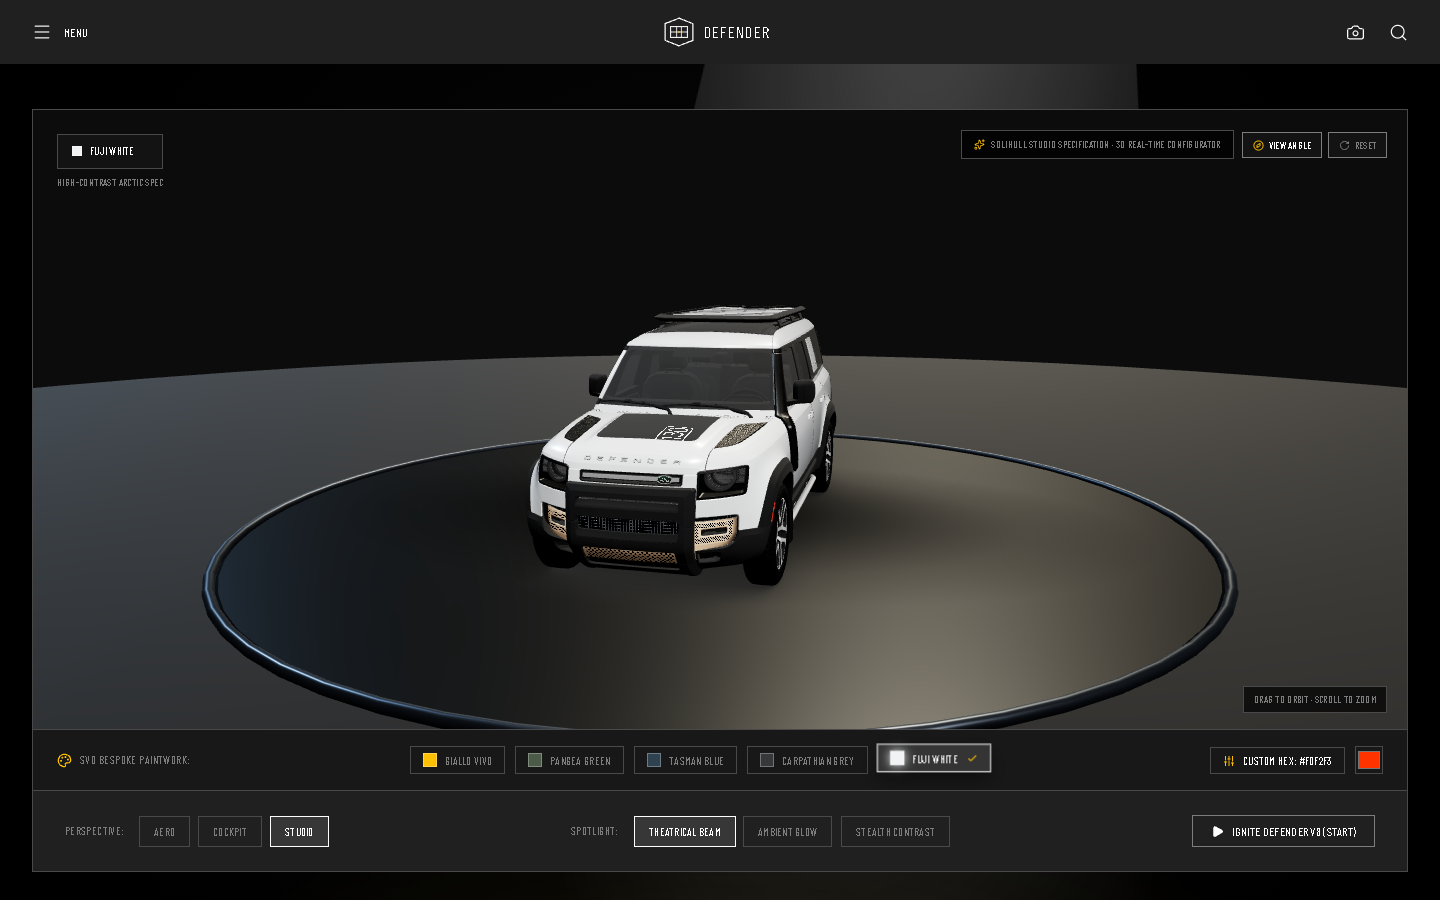
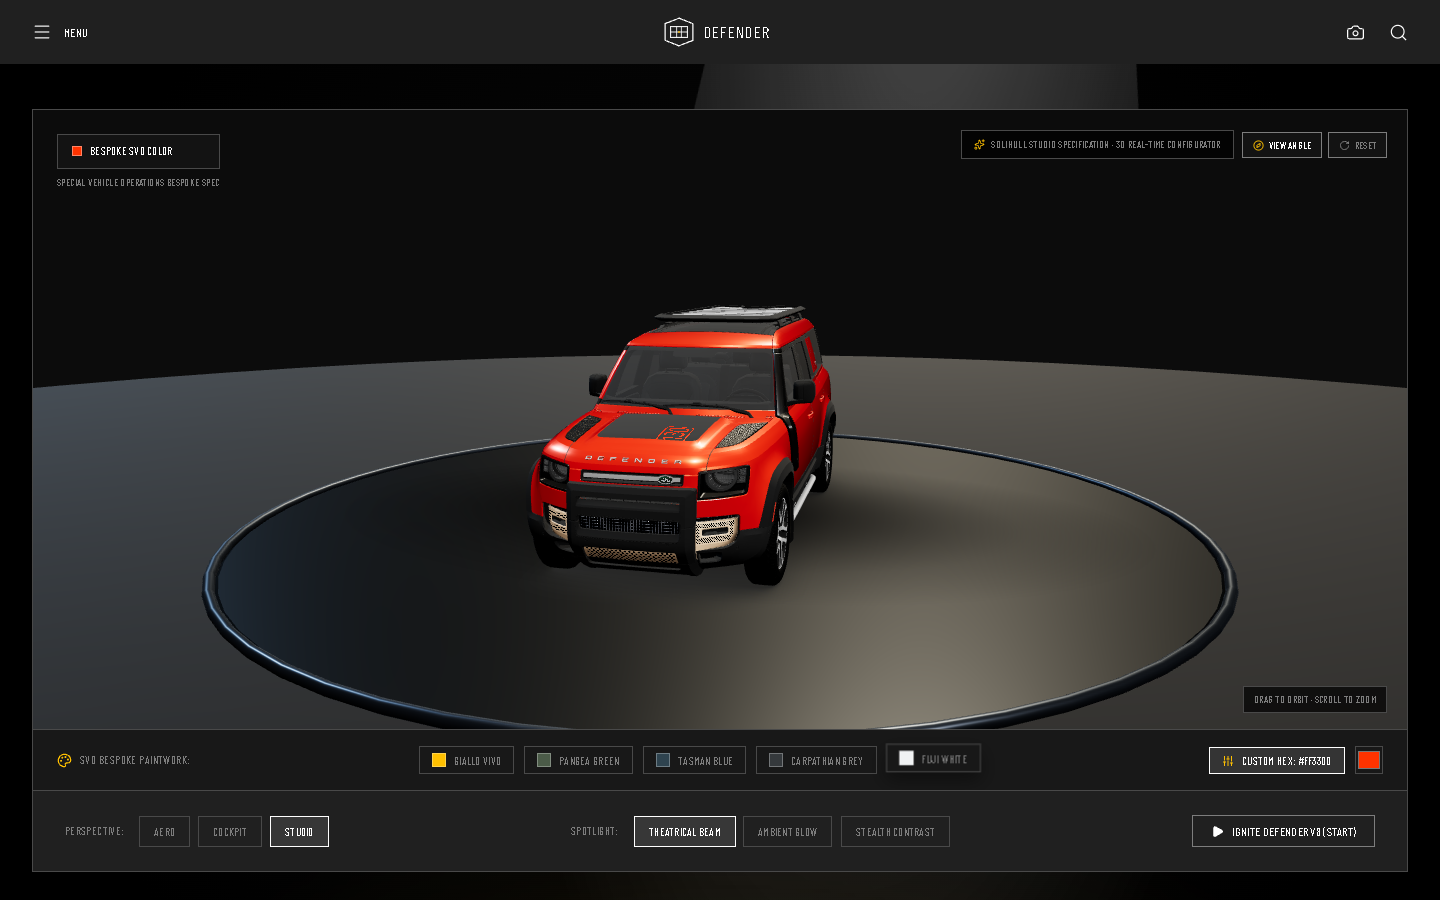
fix: update 3D camera viewpoints, centered stage framing, and visual screenshots

diff --git a/scripts/capture-3d-studio.js b/scripts/capture-3d-studio.js
@@ -80,13 +80,8 @@ async function capture() {
 
   // 6. Test Bespoke Custom Hex
   console.log('Selecting Custom SVO Bespoke Hex (#ff3300)...');
-  await page.evaluate(() => {
-    const input = document.querySelector('input[type="color"]');
-    if (input) {
-      input.value = '#ff3300';
-      input.dispatchEvent(new Event('change', { bubbles: true }));
-    }
-  });
+  const colorInput = page.locator('input[type="color"]');
+  await colorInput.fill('#ff3300');
   await page.waitForTimeout(600);
   await page.screenshot({ path: 'recordings/3d-studio-custom-red.png' });
 
